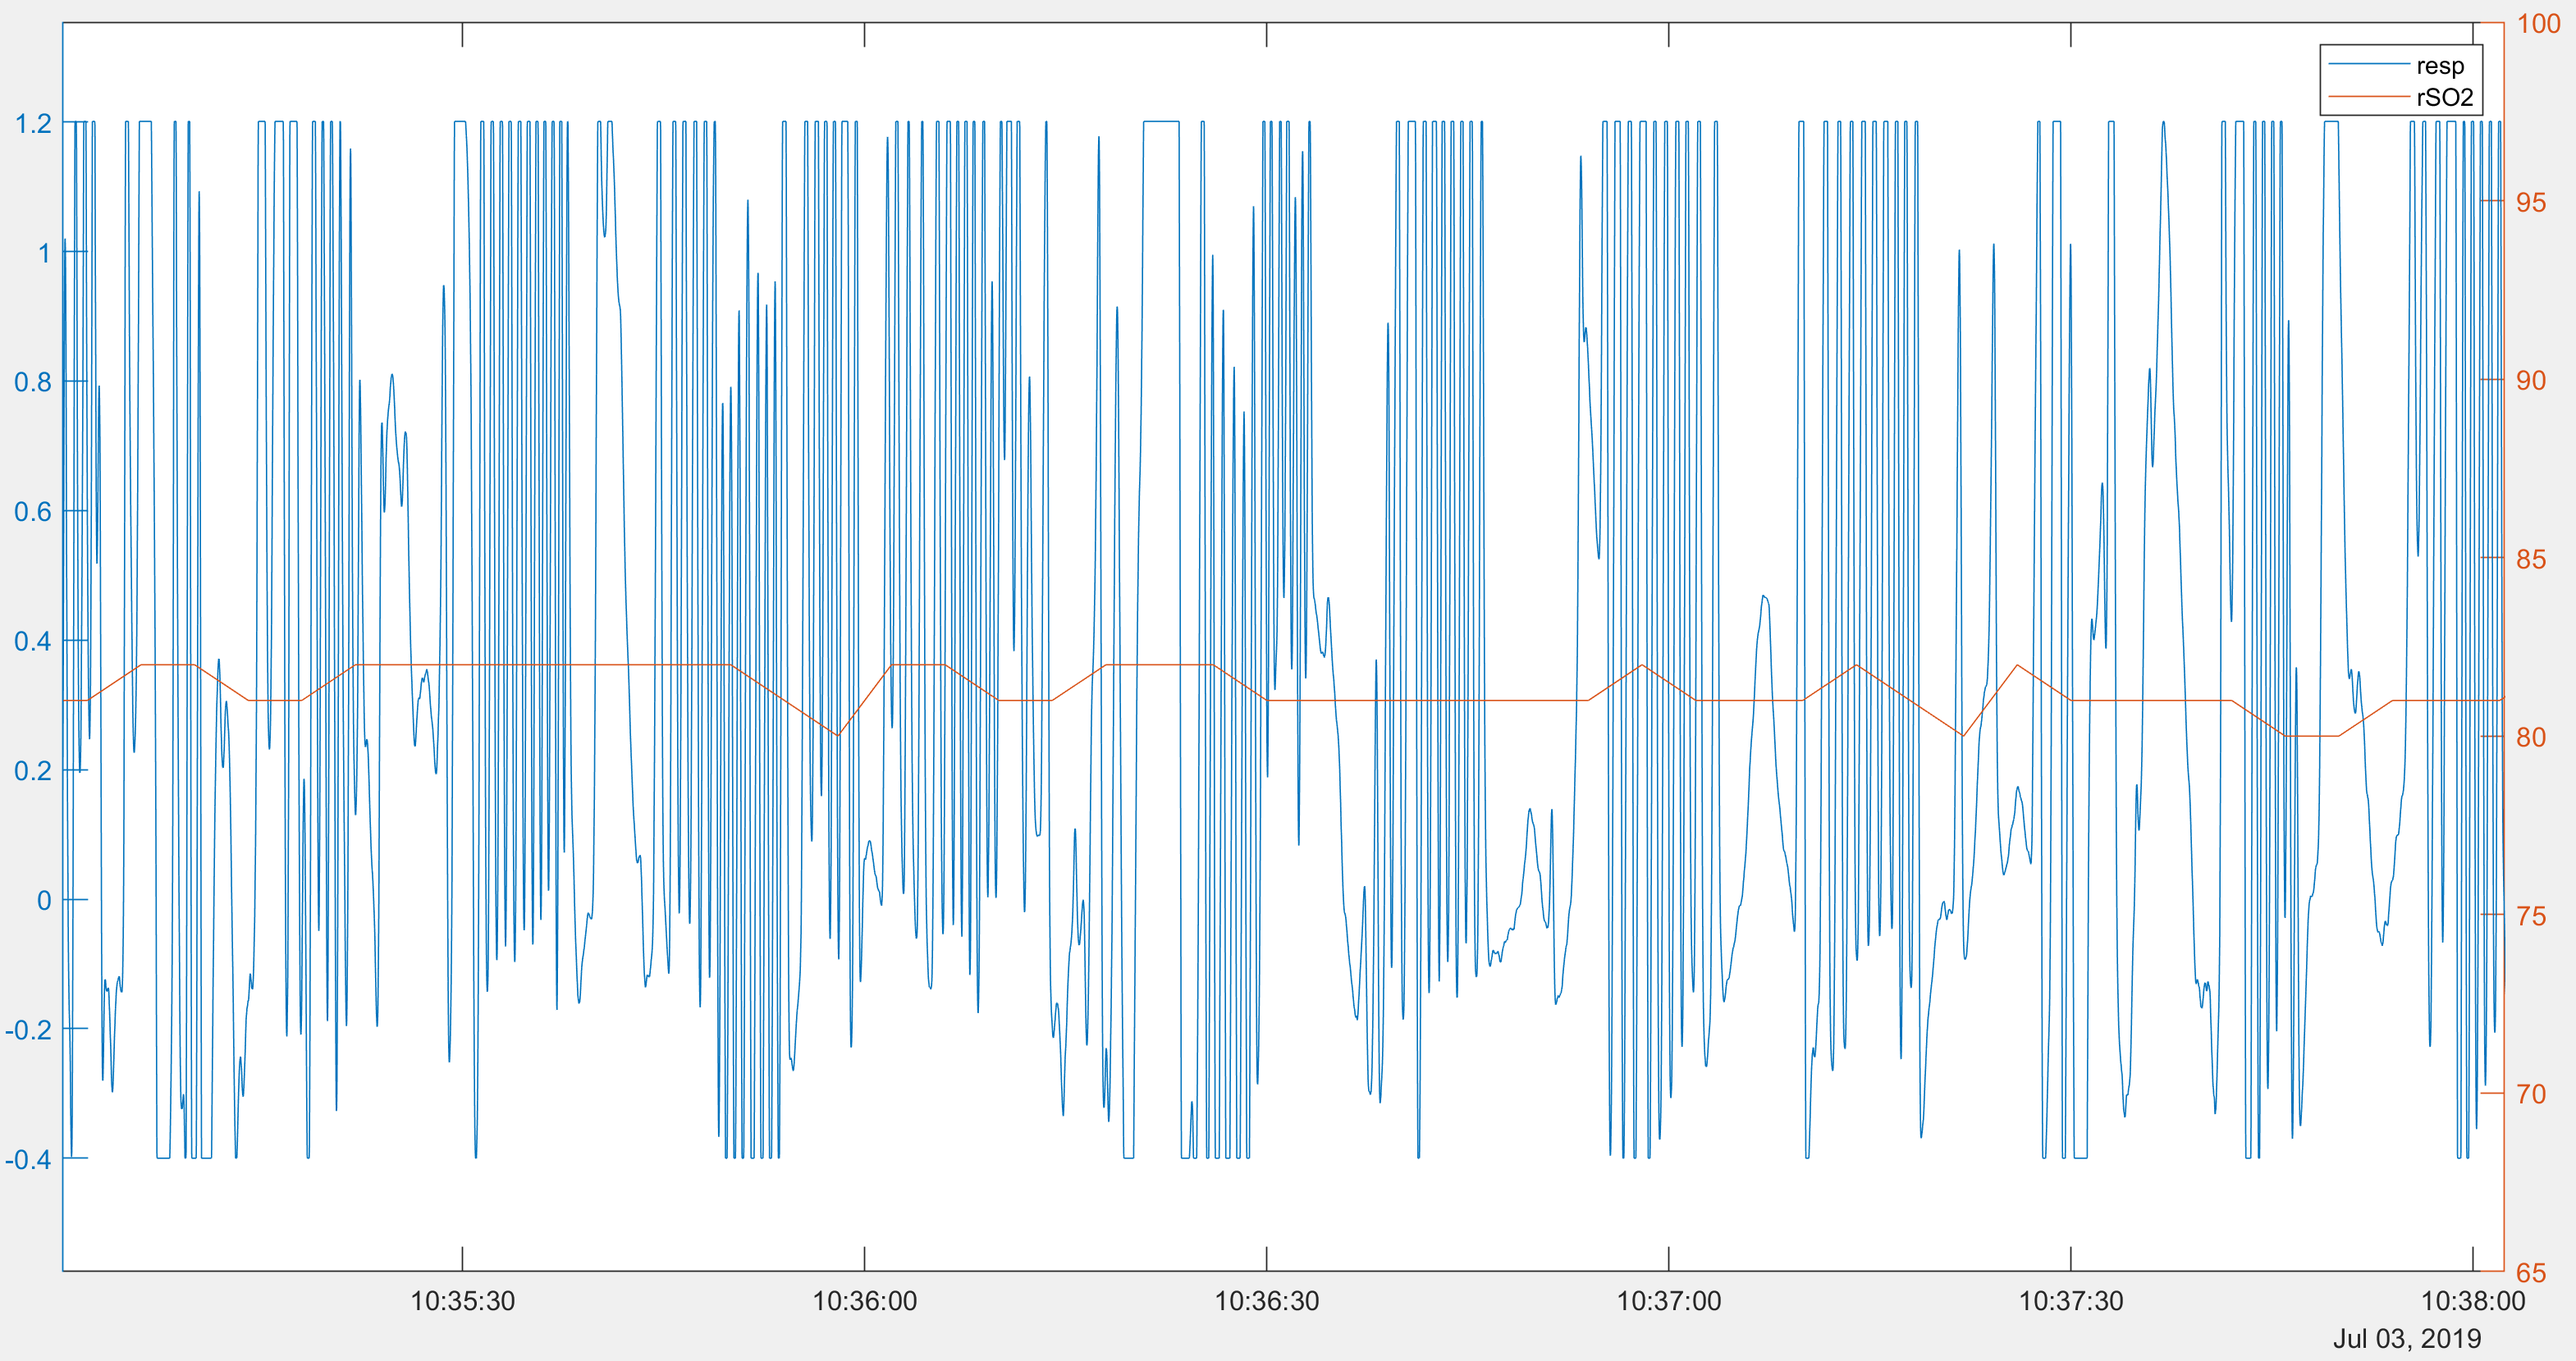
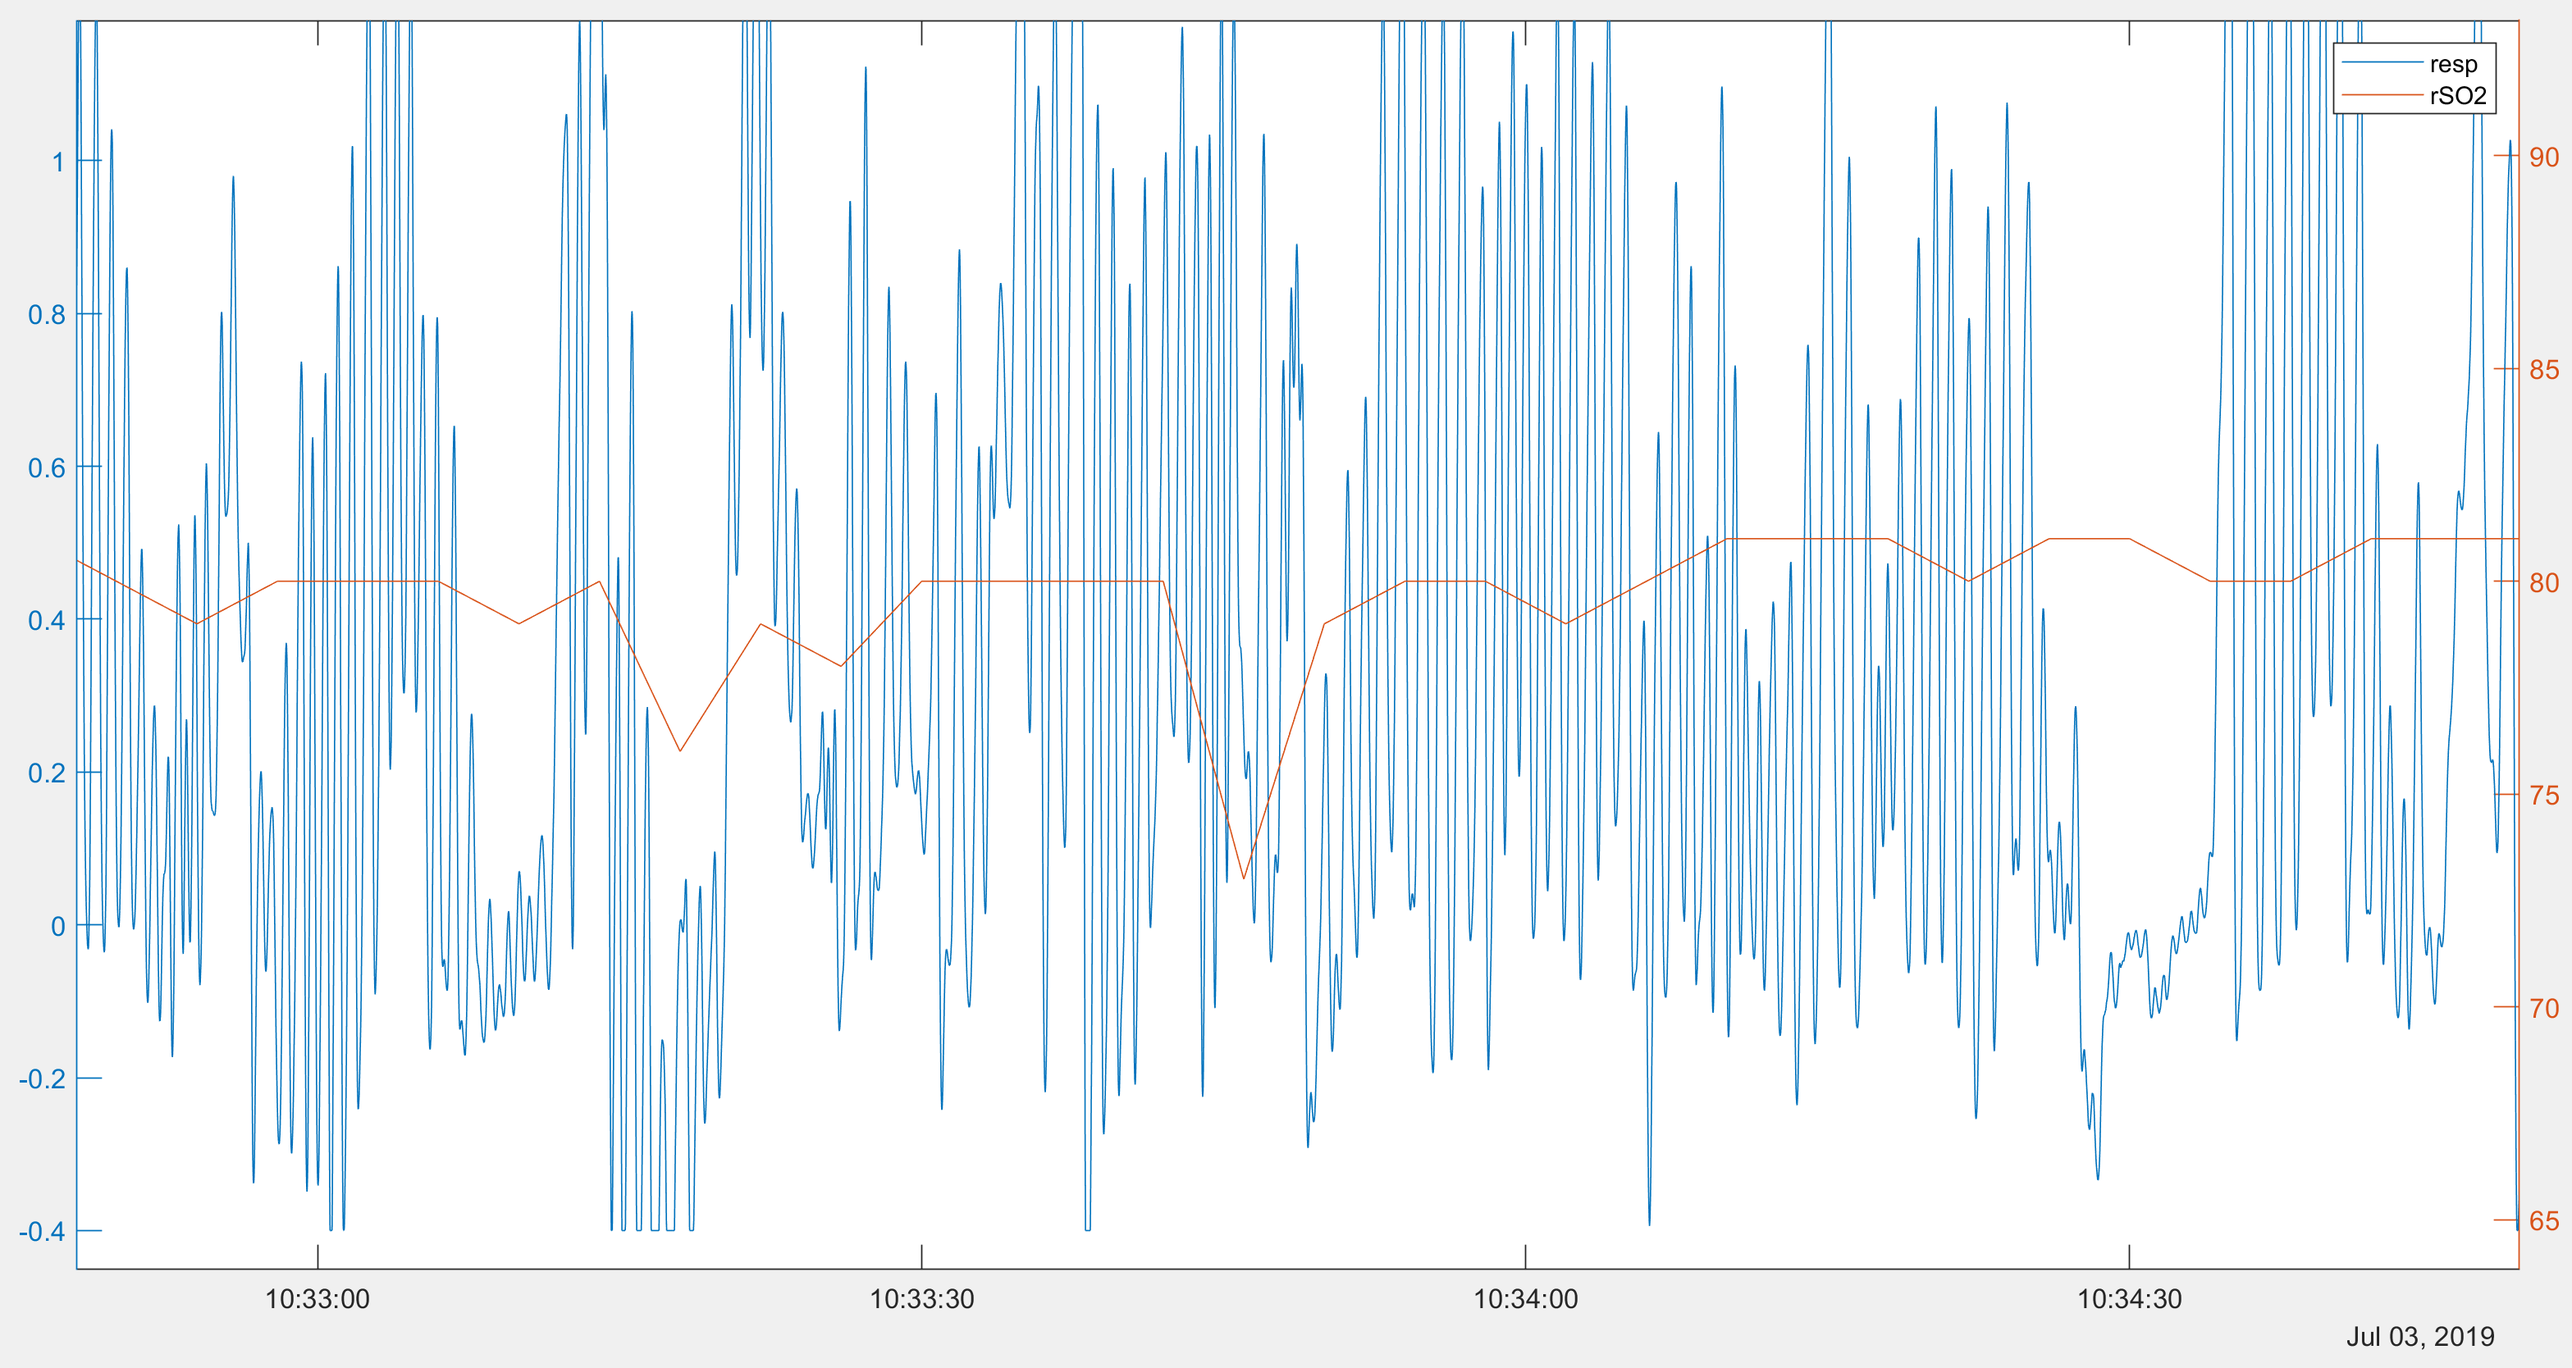
update display_apnea

diff --git a/src/display/display_apnea.m b/src/display/display_apnea.m
@@ -9,7 +9,7 @@ cd('NICUHDF5Viewer-4.2/')
 filename = ['data/2073/20190703000000_PreVent_Patient_2073_MC9_20190703_1.hdf5'];
 [resp_data,name,info]=getfiledata(filename,'Resp');
 [resp,respxt,respxfs,info,respt] = formatdata(resp_data,info,3,1);
-resp_datetime = datetime(resp.t/1000,'ConvertFrom','posixTime','Format','dd-MMM-yyyy HH:mm:ss.SSS');
+resp_datetime = datetime(resp.t/1000,'ConvertFrom','posixTime','Format','dd-MMM-yyyy HH:mm:ss.SSS')-hours(4)-minutes(59)-seconds(17);
 cd('..')
 
 % Configure rSO2 data.
